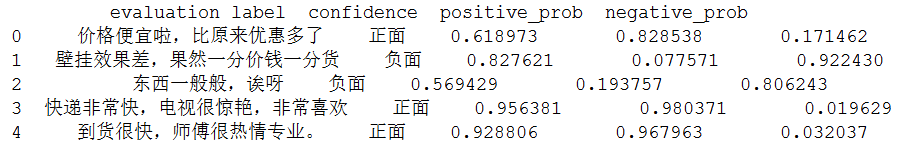
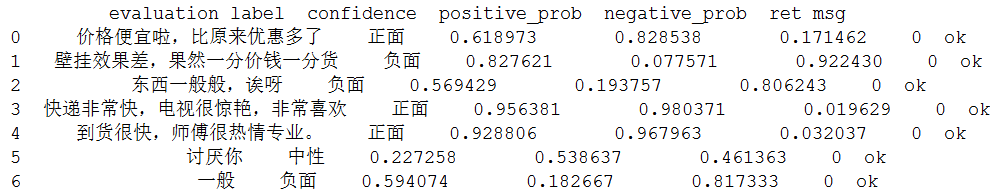
加入腾讯接口

diff --git a/creat_data/baidu.py b/creat_data/baidu.py
@@ -21,12 +21,24 @@ def creat_label(texts, interface='SDK'):
     if interface == 'SDK':
         for one_text in texts:
             result = client.sentimentClassify(one_text)
-            results.append([one_text,
-                            result['items'][0]['sentiment'],
-                            result['items'][0]['confidence'],
-                            result['items'][0]['positive_prob'],
-                            result['items'][0]['negative_prob']
-                            ])
+            if 'error_code' in result:
+                results.append([one_text,
+                                0,
+                                0,
+                                0,
+                                0,
+                                result['error_code'],
+                                result['error_msg']
+                                ])
+            else:
+                results.append([one_text,
+                                result['items'][0]['sentiment'],
+                                result['items'][0]['confidence'],
+                                result['items'][0]['positive_prob'],
+                                result['items'][0]['negative_prob'],
+                                0,
+                                'ok'
+                                ])
     elif interface == 'API':
         # 获取access_token
         url = baidu['access_token_url']
@@ -46,18 +58,24 @@ def creat_label(texts, interface='SDK'):
                               headers=headers,
                               data=data)
             result = json.loads(r.text)
-            results.append([one_text,
-                            result['items'][0]['sentiment'],
-                            result['items'][0]['confidence'],
-                            result['items'][0]['positive_prob'],
-                            result['items'][0]['negative_prob']
-                            ])
-
-        # 逐句调用接口判断
-
-        data = json.dumps({'text': '价格便宜啦，比原来优惠多了'})
-        r = requests.post(url=url, params=params, headers=headers, data=data)
-        result = json.loads(r.text)
+            if 'error_code' in result:
+                results.append([one_text,
+                                0,
+                                0,
+                                0,
+                                0,
+                                result['error_code'],
+                                result['error_msg']
+                                ])
+            else:
+                results.append([one_text,
+                                result['items'][0]['sentiment'],
+                                result['items'][0]['confidence'],
+                                result['items'][0]['positive_prob'],
+                                result['items'][0]['negative_prob'],
+                                0,
+                                'ok'
+                                ])
     else:
         print('ERROR: No interface named %s' % (interface))
     return results
@@ -69,14 +87,18 @@ if __name__ == '__main__':
                                  '东西一般般，诶呀',
                                  '快递非常快，电视很惊艳，非常喜欢',
                                  '到货很快，师傅很热情专业。',
-                                 '讨厌你'
+                                 '讨厌你',
+                                 '一般'
                                  ],
                           interface='SDK')
     results = pd.DataFrame(results, columns=['evaluation',
                                              'label',
                                              'confidence',
                                              'positive_prob',
-                                             'negative_prob'])
-    results['label'] = np.where(results['label'] == 2,'正面',
+                                             'negative_prob',
+                                             'ret',
+                                             'msg'])
+    results['label'] = np.where(results['label'] == 2,
+                                '正面',
                                 np.where(results['label'] == 1, '中性', '负面') )
     print(results)

diff --git a/creat_data/tencent.py b/creat_data/tencent.py
@@ -1,0 +1,85 @@
+from creat_data.config import tencent
+import pandas as pd
+import numpy as np
+import requests
+import json
+import time
+import random
+import hashlib
+from urllib import parse
+from collections import OrderedDict
+
+AppID = tencent['account']['id_1']['APP_ID']
+AppKey = tencent['account']['id_1']['AppKey']
+
+def cal_sign(params_raw,AppKey=AppKey):
+    # 官方文档例子为php，给出python版本
+    # params_raw = {'app_id': '10000',
+    #               'time_stamp': '1493449657',
+    #               'nonce_str': '20e3408a79',
+    #               'key1': '腾讯AI开放平台',
+    #               'key2': '示例仅供参考',
+    #               'sign': ''}
+    # AppKey = 'a95eceb1ac8c24ee28b70f7dbba912bf'
+    # cal_sign(params_raw=params_raw,
+    #          AppKey=AppKey)
+    # 返回：BE918C28827E0783D1E5F8E6D7C37A61
+    params = OrderedDict()
+    for i in sorted(params_raw):
+        if params_raw[i] != '':
+            params[i] = params_raw[i]
+    newurl = parse.urlencode(params)
+    newurl += ('&app_key=' + AppKey)
+    sign = hashlib.md5(newurl.encode("latin1")).hexdigest().upper()
+    return sign
+
+
+def creat_label(texts,
+                AppID=AppID,
+                AppKey=AppKey):
+    '''
+    :param texts: 需要打标签的文档列表
+    :return: 打好标签的列表，包括原始文档、标签、置信水平
+    '''
+
+    url = tencent['api']['nlp_textpolar']['url']
+    results = []
+    # 逐句调用接口判断
+    for one_text in texts:
+        params = {'app_id': AppID,
+                  'time_stamp': int(time.time()),
+                  'nonce_str': ''.join([random.choice('1234567890abcdefghijklmnopqrstuvwxyz') for i in range(10)]),
+                  'sign': '',
+                  'text': one_text}
+        params['sign'] = cal_sign(params_raw=params,
+                                  AppKey=AppKey)  # 获取sign
+        r = requests.post(url=url,
+                          params=params)  # 获取分析结果
+        result = json.loads(r.text)
+        # print(result)
+        results.append([one_text,
+                        result['data']['polar'],
+                        result['data']['confd'],
+                        result['ret'],
+                        result['msg']
+                        ])
+    return results
+
+
+if __name__ == '__main__':
+    results = creat_label(texts=['价格便宜啦，比原来优惠多了',
+                                 '壁挂效果差，果然一分价钱一分货',
+                                 '东西一般般，诶呀',
+                                 '快递非常快，电视很惊艳，非常喜欢',
+                                 '到货很快，师傅很热情专业。',
+                                 '讨厌你',
+                                 '一般'
+                                 ])
+    results = pd.DataFrame(results, columns=['evaluation',
+                                             'label',
+                                             'confidence',
+                                             'ret',
+                                             'msg'])
+    results['label'] = np.where(results['label'] == 1, '正面',
+                                np.where(results['label'] == 0, '中性', '负面'))
+    print(results)
